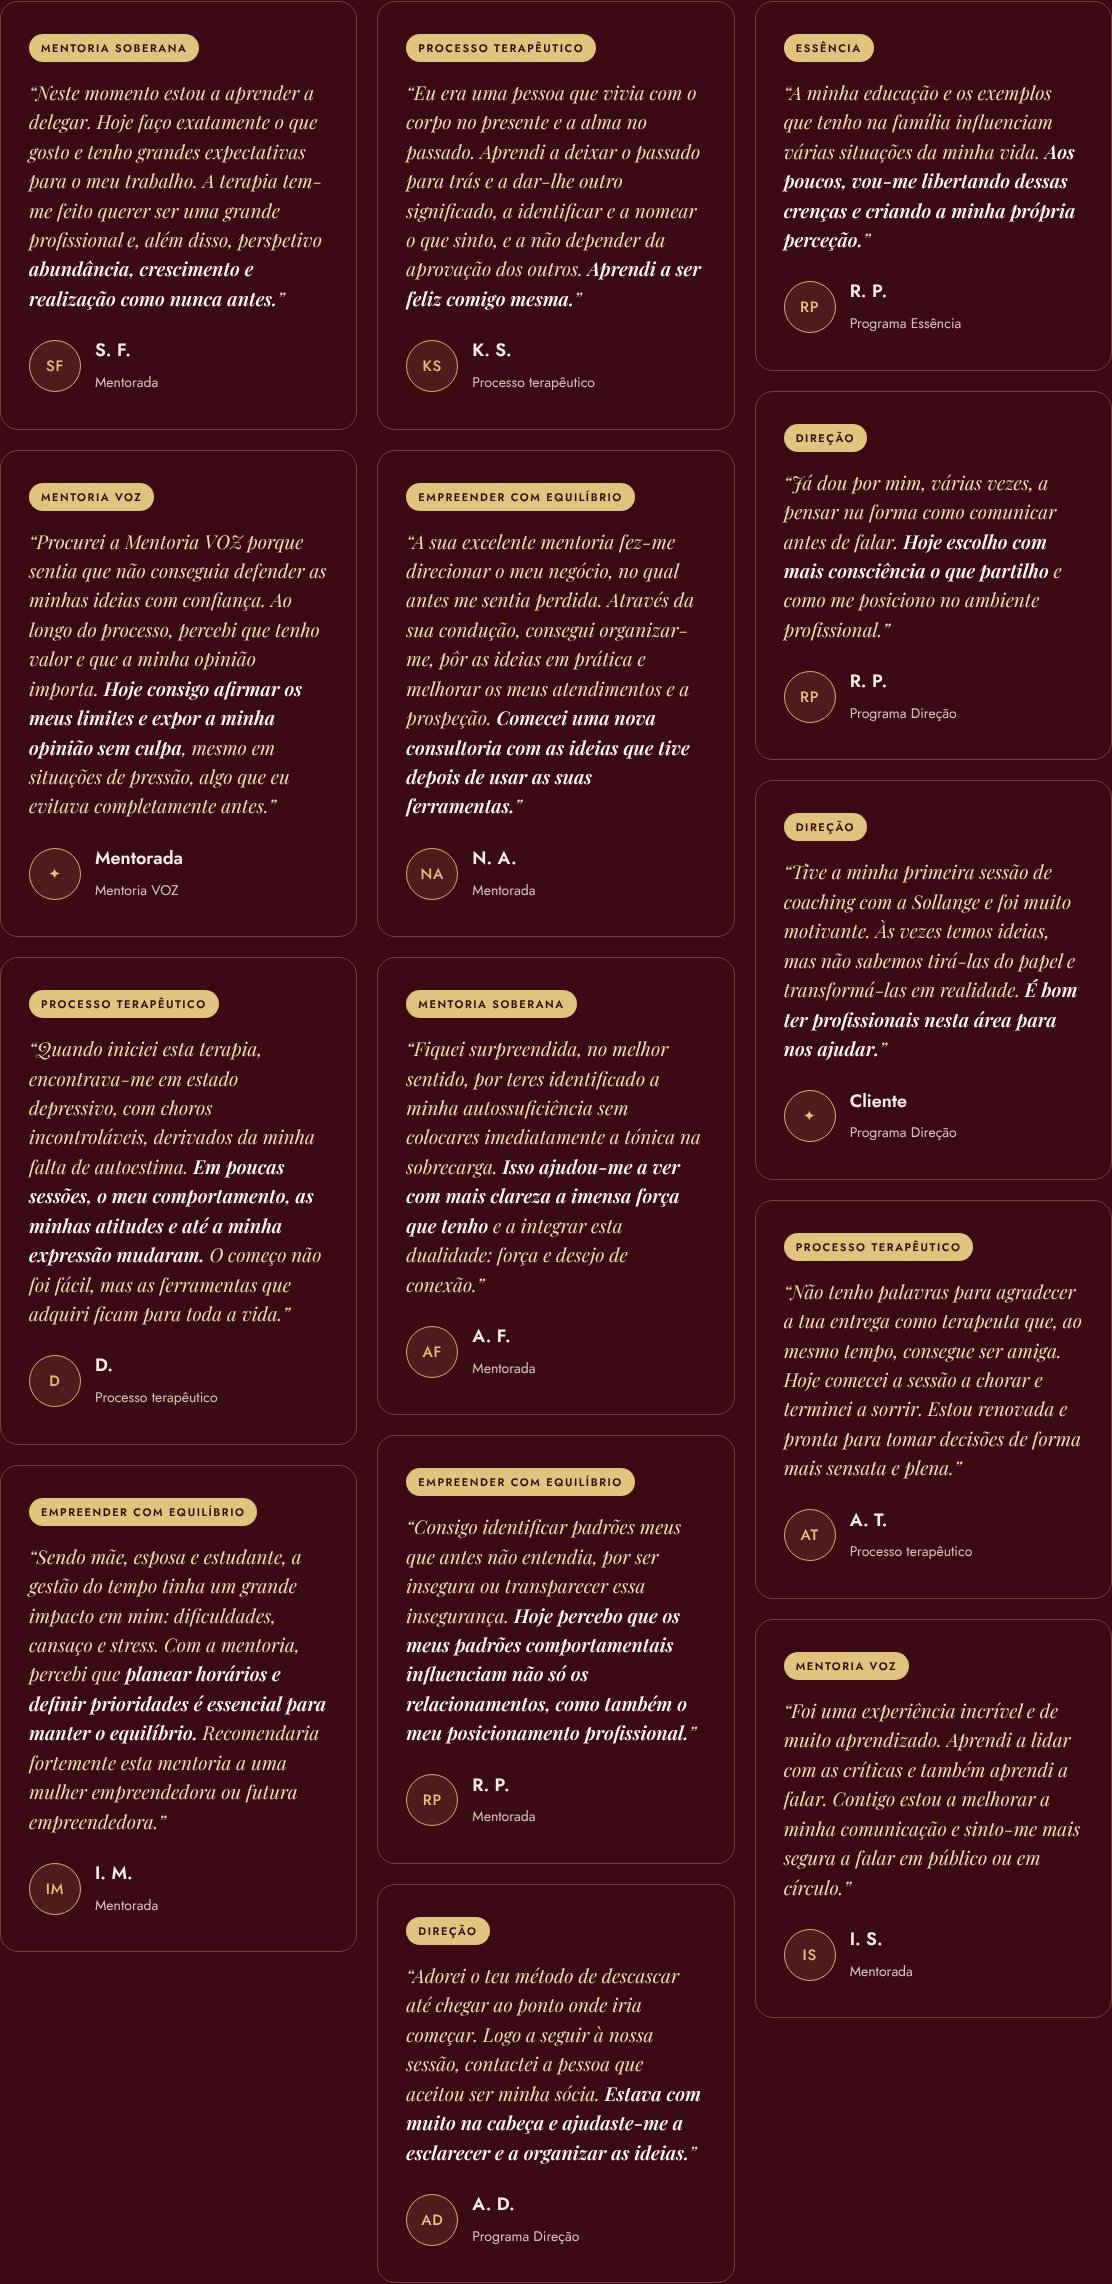
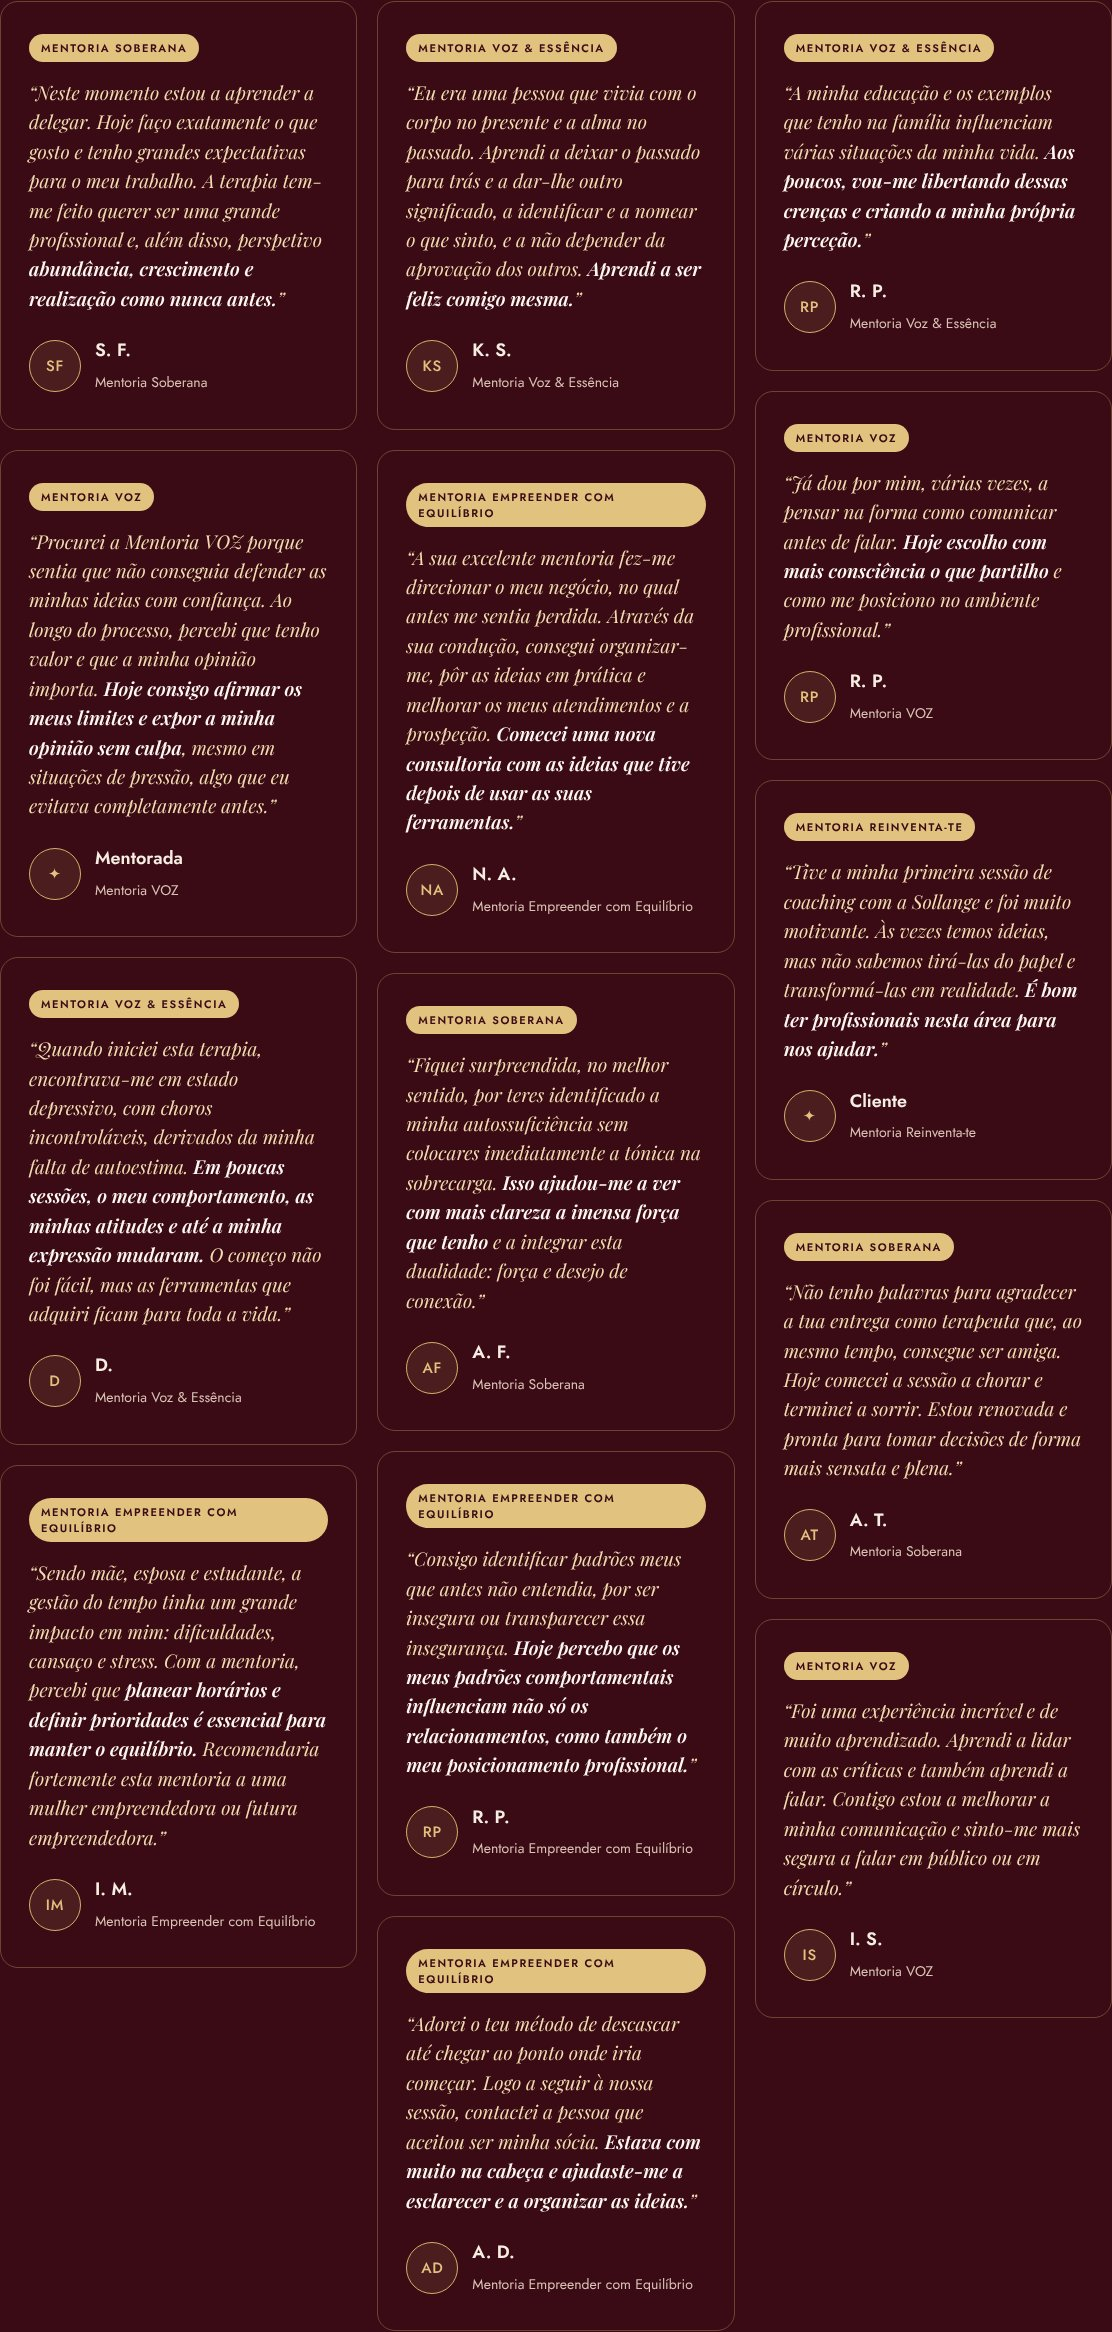
Testimonials: label each with a mentoria name
Claude-Session: https://claude.ai/code/session_01LHQJ2mQGDsvNSWxv53LoAn

diff --git a/sollange-programas.html b/sollange-programas.html
@@ -335,7 +335,7 @@ footer{text-align:center;padding:40px 0;font-size:14px;color:#D9C3B4;border-top:
 <div class="numeros"><div><b>[+000]</b><span>pessoas acompanhadas</span></div><div><b>[00]</b><span>anos de experiência</span></div><div><b>[000+]</b><span>sessões individuais</span></div><div><b>[00]</b><span>mulheres no Círculo do Poder Feminino</span></div></div>
 <p class="eyebrow">Quem já fez o caminho</p>
 <h2 class="sec-h">Palavras de quem já viveu este trabalho</h2>
-<div class="depo-grid"><figure><span class="depo-res">Mentoria Soberana</span><blockquote>“Neste momento estou a aprender a delegar. Hoje faço exatamente o que gosto e tenho grandes expectativas para o meu trabalho. A terapia tem-me feito querer ser uma grande profissional e, além disso, perspetivo <b>abundância, crescimento e realização como nunca antes.</b>”</blockquote><div class="autor"><div class="ini">SF</div><div><b>S. F.</b><span>Mentorada</span></div></div></figure><figure><span class="depo-res">Mentoria VOZ</span><blockquote>“Procurei a Mentoria VOZ porque sentia que não conseguia defender as minhas ideias com confiança. Ao longo do processo, percebi que tenho valor e que a minha opinião importa. <b>Hoje consigo afirmar os meus limites e expor a minha opinião sem culpa</b>, mesmo em situações de pressão, algo que eu evitava completamente antes.”</blockquote><div class="autor"><div class="ini">✦</div><div><b>Mentorada</b><span>Mentoria VOZ</span></div></div></figure><figure><span class="depo-res">Processo terapêutico</span><blockquote>“Quando iniciei esta terapia, encontrava-me em estado depressivo, com choros incontroláveis, derivados da minha falta de autoestima. <b>Em poucas sessões, o meu comportamento, as minhas atitudes e até a minha expressão mudaram.</b> O começo não foi fácil, mas as ferramentas que adquiri ficam para toda a vida.”</blockquote><div class="autor"><div class="ini">D</div><div><b>D.</b><span>Processo terapêutico</span></div></div></figure><figure><span class="depo-res">Empreender com Equilíbrio</span><blockquote>“Sendo mãe, esposa e estudante, a gestão do tempo tinha um grande impacto em mim: dificuldades, cansaço e stress. Com a mentoria, percebi que <b>planear horários e definir prioridades é essencial para manter o equilíbrio.</b> Recomendaria fortemente esta mentoria a uma mulher empreendedora ou futura empreendedora.”</blockquote><div class="autor"><div class="ini">IM</div><div><b>I. M.</b><span>Mentorada</span></div></div></figure><figure><span class="depo-res">Processo terapêutico</span><blockquote>“Eu era uma pessoa que vivia com o corpo no presente e a alma no passado. Aprendi a deixar o passado para trás e a dar-lhe outro significado, a identificar e a nomear o que sinto, e a não depender da aprovação dos outros. <b>Aprendi a ser feliz comigo mesma.</b>”</blockquote><div class="autor"><div class="ini">KS</div><div><b>K. S.</b><span>Processo terapêutico</span></div></div></figure><figure><span class="depo-res">Empreender com Equilíbrio</span><blockquote>“A sua excelente mentoria fez-me direcionar o meu negócio, no qual antes me sentia perdida. Através da sua condução, consegui organizar-me, pôr as ideias em prática e melhorar os meus atendimentos e a prospeção. <b>Comecei uma nova consultoria com as ideias que tive depois de usar as suas ferramentas.</b>”</blockquote><div class="autor"><div class="ini">NA</div><div><b>N. A.</b><span>Mentorada</span></div></div></figure><figure><span class="depo-res">Mentoria Soberana</span><blockquote>“Fiquei surpreendida, no melhor sentido, por teres identificado a minha autossuficiência sem colocares imediatamente a tónica na sobrecarga. <b>Isso ajudou-me a ver com mais clareza a imensa força que tenho</b> e a integrar esta dualidade: força e desejo de conexão.”</blockquote><div class="autor"><div class="ini">AF</div><div><b>A. F.</b><span>Mentorada</span></div></div></figure><figure><span class="depo-res">Empreender com Equilíbrio</span><blockquote>“Consigo identificar padrões meus que antes não entendia, por ser insegura ou transparecer essa insegurança. <b>Hoje percebo que os meus padrões comportamentais influenciam não só os relacionamentos, como também o meu posicionamento profissional.</b>”</blockquote><div class="autor"><div class="ini">RP</div><div><b>R. P.</b><span>Mentorada</span></div></div></figure><figure><span class="depo-res">Direção</span><blockquote>“Adorei o teu método de descascar até chegar ao ponto onde iria começar. Logo a seguir à nossa sessão, contactei a pessoa que aceitou ser minha sócia. <b>Estava com muito na cabeça e ajudaste-me a esclarecer e a organizar as ideias.</b>”</blockquote><div class="autor"><div class="ini">AD</div><div><b>A. D.</b><span>Programa Direção</span></div></div></figure><figure><span class="depo-res">Essência</span><blockquote>“A minha educação e os exemplos que tenho na família influenciam várias situações da minha vida. <b>Aos poucos, vou-me libertando dessas crenças e criando a minha própria perceção.</b>”</blockquote><div class="autor"><div class="ini">RP</div><div><b>R. P.</b><span>Programa Essência</span></div></div></figure><figure><span class="depo-res">Direção</span><blockquote>“Já dou por mim, várias vezes, a pensar na forma como comunicar antes de falar. <b>Hoje escolho com mais consciência o que partilho</b> e como me posiciono no ambiente profissional.”</blockquote><div class="autor"><div class="ini">RP</div><div><b>R. P.</b><span>Programa Direção</span></div></div></figure><figure><span class="depo-res">Direção</span><blockquote>“Tive a minha primeira sessão de coaching com a Sollange e foi muito motivante. Às vezes temos ideias, mas não sabemos tirá-las do papel e transformá-las em realidade. <b>É bom ter profissionais nesta área para nos ajudar.</b>”</blockquote><div class="autor"><div class="ini">✦</div><div><b>Cliente</b><span>Programa Direção</span></div></div></figure><figure><span class="depo-res">Processo terapêutico</span><blockquote>“Não tenho palavras para agradecer a tua entrega como terapeuta que, ao mesmo tempo, consegue ser amiga. Hoje comecei a sessão a chorar e terminei a sorrir. Estou renovada e pronta para tomar decisões de forma mais sensata e plena.”</blockquote><div class="autor"><div class="ini">AT</div><div><b>A. T.</b><span>Processo terapêutico</span></div></div></figure><figure><span class="depo-res">Mentoria VOZ</span><blockquote>“Foi uma experiência incrível e de muito aprendizado. Aprendi a lidar com as críticas e também aprendi a falar. Contigo estou a melhorar a minha comunicação e sinto-me mais segura a falar em público ou em círculo.”</blockquote><div class="autor"><div class="ini">IS</div><div><b>I. S.</b><span>Mentorada</span></div></div></figure></div>
+<div class="depo-grid"><figure><span class="depo-res">Mentoria Soberana</span><blockquote>“Neste momento estou a aprender a delegar. Hoje faço exatamente o que gosto e tenho grandes expectativas para o meu trabalho. A terapia tem-me feito querer ser uma grande profissional e, além disso, perspetivo <b>abundância, crescimento e realização como nunca antes.</b>”</blockquote><div class="autor"><div class="ini">SF</div><div><b>S. F.</b><span>Mentoria Soberana</span></div></div></figure><figure><span class="depo-res">Mentoria VOZ</span><blockquote>“Procurei a Mentoria VOZ porque sentia que não conseguia defender as minhas ideias com confiança. Ao longo do processo, percebi que tenho valor e que a minha opinião importa. <b>Hoje consigo afirmar os meus limites e expor a minha opinião sem culpa</b>, mesmo em situações de pressão, algo que eu evitava completamente antes.”</blockquote><div class="autor"><div class="ini">✦</div><div><b>Mentorada</b><span>Mentoria VOZ</span></div></div></figure><figure><span class="depo-res">Mentoria Voz &amp; Essência</span><blockquote>“Quando iniciei esta terapia, encontrava-me em estado depressivo, com choros incontroláveis, derivados da minha falta de autoestima. <b>Em poucas sessões, o meu comportamento, as minhas atitudes e até a minha expressão mudaram.</b> O começo não foi fácil, mas as ferramentas que adquiri ficam para toda a vida.”</blockquote><div class="autor"><div class="ini">D</div><div><b>D.</b><span>Mentoria Voz &amp; Essência</span></div></div></figure><figure><span class="depo-res">Mentoria Empreender com Equilíbrio</span><blockquote>“Sendo mãe, esposa e estudante, a gestão do tempo tinha um grande impacto em mim: dificuldades, cansaço e stress. Com a mentoria, percebi que <b>planear horários e definir prioridades é essencial para manter o equilíbrio.</b> Recomendaria fortemente esta mentoria a uma mulher empreendedora ou futura empreendedora.”</blockquote><div class="autor"><div class="ini">IM</div><div><b>I. M.</b><span>Mentoria Empreender com Equilíbrio</span></div></div></figure><figure><span class="depo-res">Mentoria Voz &amp; Essência</span><blockquote>“Eu era uma pessoa que vivia com o corpo no presente e a alma no passado. Aprendi a deixar o passado para trás e a dar-lhe outro significado, a identificar e a nomear o que sinto, e a não depender da aprovação dos outros. <b>Aprendi a ser feliz comigo mesma.</b>”</blockquote><div class="autor"><div class="ini">KS</div><div><b>K. S.</b><span>Mentoria Voz &amp; Essência</span></div></div></figure><figure><span class="depo-res">Mentoria Empreender com Equilíbrio</span><blockquote>“A sua excelente mentoria fez-me direcionar o meu negócio, no qual antes me sentia perdida. Através da sua condução, consegui organizar-me, pôr as ideias em prática e melhorar os meus atendimentos e a prospeção. <b>Comecei uma nova consultoria com as ideias que tive depois de usar as suas ferramentas.</b>”</blockquote><div class="autor"><div class="ini">NA</div><div><b>N. A.</b><span>Mentoria Empreender com Equilíbrio</span></div></div></figure><figure><span class="depo-res">Mentoria Soberana</span><blockquote>“Fiquei surpreendida, no melhor sentido, por teres identificado a minha autossuficiência sem colocares imediatamente a tónica na sobrecarga. <b>Isso ajudou-me a ver com mais clareza a imensa força que tenho</b> e a integrar esta dualidade: força e desejo de conexão.”</blockquote><div class="autor"><div class="ini">AF</div><div><b>A. F.</b><span>Mentoria Soberana</span></div></div></figure><figure><span class="depo-res">Mentoria Empreender com Equilíbrio</span><blockquote>“Consigo identificar padrões meus que antes não entendia, por ser insegura ou transparecer essa insegurança. <b>Hoje percebo que os meus padrões comportamentais influenciam não só os relacionamentos, como também o meu posicionamento profissional.</b>”</blockquote><div class="autor"><div class="ini">RP</div><div><b>R. P.</b><span>Mentoria Empreender com Equilíbrio</span></div></div></figure><figure><span class="depo-res">Mentoria Empreender com Equilíbrio</span><blockquote>“Adorei o teu método de descascar até chegar ao ponto onde iria começar. Logo a seguir à nossa sessão, contactei a pessoa que aceitou ser minha sócia. <b>Estava com muito na cabeça e ajudaste-me a esclarecer e a organizar as ideias.</b>”</blockquote><div class="autor"><div class="ini">AD</div><div><b>A. D.</b><span>Mentoria Empreender com Equilíbrio</span></div></div></figure><figure><span class="depo-res">Mentoria Voz &amp; Essência</span><blockquote>“A minha educação e os exemplos que tenho na família influenciam várias situações da minha vida. <b>Aos poucos, vou-me libertando dessas crenças e criando a minha própria perceção.</b>”</blockquote><div class="autor"><div class="ini">RP</div><div><b>R. P.</b><span>Mentoria Voz &amp; Essência</span></div></div></figure><figure><span class="depo-res">Mentoria VOZ</span><blockquote>“Já dou por mim, várias vezes, a pensar na forma como comunicar antes de falar. <b>Hoje escolho com mais consciência o que partilho</b> e como me posiciono no ambiente profissional.”</blockquote><div class="autor"><div class="ini">RP</div><div><b>R. P.</b><span>Mentoria VOZ</span></div></div></figure><figure><span class="depo-res">Mentoria Reinventa-te</span><blockquote>“Tive a minha primeira sessão de coaching com a Sollange e foi muito motivante. Às vezes temos ideias, mas não sabemos tirá-las do papel e transformá-las em realidade. <b>É bom ter profissionais nesta área para nos ajudar.</b>”</blockquote><div class="autor"><div class="ini">✦</div><div><b>Cliente</b><span>Mentoria Reinventa-te</span></div></div></figure><figure><span class="depo-res">Mentoria Soberana</span><blockquote>“Não tenho palavras para agradecer a tua entrega como terapeuta que, ao mesmo tempo, consegue ser amiga. Hoje comecei a sessão a chorar e terminei a sorrir. Estou renovada e pronta para tomar decisões de forma mais sensata e plena.”</blockquote><div class="autor"><div class="ini">AT</div><div><b>A. T.</b><span>Mentoria Soberana</span></div></div></figure><figure><span class="depo-res">Mentoria VOZ</span><blockquote>“Foi uma experiência incrível e de muito aprendizado. Aprendi a lidar com as críticas e também aprendi a falar. Contigo estou a melhorar a minha comunicação e sinto-me mais segura a falar em público ou em círculo.”</blockquote><div class="autor"><div class="ini">IS</div><div><b>I. S.</b><span>Mentoria VOZ</span></div></div></figure></div>
 <p class="eyebrow" style="margin-top:72px">As mensagens, tal como chegaram</p>
 <div class="prints"><img src="fotos/depoimentos/print-1.jpg" alt="Mensagem de cliente da Sollange"><img src="fotos/depoimentos/print-2.jpg" alt="Mensagem de cliente da Sollange"><img src="fotos/depoimentos/print-voz.jpg" alt="Mensagem de mentorada da Mentoria VOZ"><img src="fotos/depoimentos/print-ks.jpg" alt="Mensagem de cliente do processo terapêutico"><img src="fotos/depoimentos/print-coaching.jpg" alt="Testemunho de sessão de coaching"><img src="fotos/depoimentos/print-ad.jpg" alt="Feedback de sessão de coaching"></div>
 </div></section>
